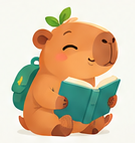
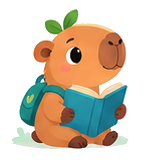
Nouvelles images de Capy, découpées dans la planche « compagnon de progression » avec fond transparent ; nouvelle icône d'appli et de site, bandeau d'accueil sans texte coupé

diff --git a/scripts/decouper-capy.js b/scripts/decouper-capy.js
@@ -1,0 +1,84 @@
+// Découpe la planche de Capy (assets/capy-source/planche-capy.png) en images de
+// l'appli, dans assets/capy/. Le fond clair autour de chaque dessin devient
+// transparent (remplissage depuis les bords), pour que Capy se pose sur tous les
+// fonds de l'appli, y compris les fonds teintés des réglages de lecture.
+//
+// Usage : node scripts/decouper-capy.js
+const Jimp = require('jimp-compact');
+
+const SOURCE = 'assets/capy-source/planche-capy.png';
+const DOSSIER = 'assets/capy';
+
+/** Nom du fichier → [x, y, largeur, hauteur] dans la planche, et transparence ou non. */
+const DECOUPES = {
+  capy: [330, 20, 380, 385, true],
+  heureux: [32, 465, 108, 130, true],
+  surpris: [135, 465, 110, 130, true],
+  'clin-oeil': [245, 465, 110, 130, true],
+  triste: [355, 465, 110, 130, true],
+  serieux: [462, 465, 112, 130, true],
+  fier: [570, 465, 135, 130, true],
+  exploration: [25, 695, 165, 160, true],
+  apprendre: [195, 695, 145, 160, true],
+  reflechi: [360, 680, 150, 175, true],
+  bravo: [525, 690, 170, 165, true],
+  explorer: [25, 895, 165, 140, true],
+  conseils: [195, 895, 135, 140, true],
+  reussite: [335, 880, 175, 160, true],
+  ralentir: [510, 900, 185, 135, true],
+  'icone-appli': [36, 36, 266, 266, true],
+  // Le bandeau s'arrête avant la phrase écrite dans l'image : elle ne peut pas être coupée.
+  paysage: [0, 1082, 905, 172, false],
+};
+
+/** Écart de couleur (0 à 441) en dessous duquel un pixel relié au bord est du fond. */
+const SEUIL_FOND = 26;
+/** Jusqu'à cet écart, le pixel du bord est à moitié transparent (contour adouci). */
+const SEUIL_BORD = 48;
+
+function rendreFondTransparent(img) {
+  const { width: l, height: h, data } = img.bitmap;
+  const coins = [0, l - 1, (h - 1) * l, h * l - 1].map((i) => [data[i * 4], data[i * 4 + 1], data[i * 4 + 2]]);
+  const ref = coins.reduce((a, c) => a.map((v, k) => v + c[k] / coins.length), [0, 0, 0]);
+  const ecart = (i) => Math.hypot(data[i * 4] - ref[0], data[i * 4 + 1] - ref[1], data[i * 4 + 2] - ref[2]);
+  const vu = new Uint8Array(l * h);
+  const pile = [];
+  for (let x = 0; x < l; x++) pile.push(x, (h - 1) * l + x);
+  for (let y = 0; y < h; y++) pile.push(y * l, y * l + l - 1);
+  while (pile.length) {
+    const i = pile.pop();
+    if (vu[i]) continue;
+    vu[i] = 1;
+    const e = ecart(i);
+    if (e >= SEUIL_BORD) continue;
+    if (e < SEUIL_FOND) {
+      data[i * 4 + 3] = 0;
+      const x = i % l;
+      if (x > 0) pile.push(i - 1);
+      if (x < l - 1) pile.push(i + 1);
+      if (i >= l) pile.push(i - l);
+      if (i < (h - 1) * l) pile.push(i + l);
+    } else {
+      data[i * 4 + 3] = Math.round((255 * (e - SEUIL_FOND)) / (SEUIL_BORD - SEUIL_FOND));
+    }
+  }
+}
+
+(async () => {
+  const planche = await Jimp.read(SOURCE);
+  for (const [nom, [x, y, l, h, transparent]] of Object.entries(DECOUPES)) {
+    const img = planche.clone().crop(x, y, l, h);
+    if (transparent) rendreFondTransparent(img);
+    await img.writeAsync(`${DOSSIER}/${nom}.png`);
+  }
+  // Icône de l'appli, de l'écran de démarrage et du site : carrée, 1024 px.
+  const icone = await Jimp.read(`${DOSSIER}/icone-appli.png`);
+  await icone.clone().resize(1024, 1024, Jimp.RESIZE_BICUBIC).writeAsync(`${DOSSIER}/icone-appli-carree.png`);
+  // Icônes du site installable (assets/web) ; la « maskable » garde le dessin dans la zone sûre, sur fond crème.
+  for (const t of [192, 512])
+    await icone.clone().resize(t, t, Jimp.RESIZE_BICUBIC).writeAsync(`assets/web/icone-${t}.png`);
+  const fond = new Jimp(512, 512, 0xfaf9f5ff);
+  fond.composite(icone.clone().resize(410, 410, Jimp.RESIZE_BICUBIC), 51, 51);
+  await fond.writeAsync('assets/web/icone-maskable-512.png');
+  console.log(`${Object.keys(DECOUPES).length} images découpées dans ${DOSSIER}/`);
+})();

diff --git a/src/mascotte.ts b/src/mascotte.ts
@@ -1,6 +1,7 @@
-// Images de Capy. C'est le seul fichier qui connaît leurs chemins :
-// pour remplacer les versions de travail par les PNG définitifs, il suffit
-// de remplacer les fichiers dans assets/capy/ (ou de modifier les chemins ici).
+// Images de Capy. C'est le seul fichier qui connaît leurs chemins. Elles sont
+// découpées dans la planche assets/capy-source/planche-capy.png par
+// scripts/decouper-capy.js (fond transparent) : pour changer une image, modifier
+// la planche ou le cadrage dans ce script, puis le relancer.
 import type { ImageSourcePropType } from 'react-native';
 
 export const mascotte = {
@@ -17,7 +18,8 @@ export const mascotte = {
   bravo: require('../assets/capy/bravo.png'),
   /** Nouveau thème, coffre de fin d'unité. */
   surpris: require('../assets/capy/surpris.png'),
-  defis: require('../assets/capy/defis.png'),
+  /** Coffre ouvert. */
+  fier: require('../assets/capy/fier.png'),
   /** Série de jours, encouragement. */
   clinOeil: require('../assets/capy/clin-oeil.png'),
   /** Écran du parcours. */
@@ -39,4 +41,4 @@ export const mascotte = {
 export type PoseCapy = keyof typeof mascotte;
 
 /** Rapport largeur / hauteur du bandeau, pour l'afficher sans le déformer. */
-export const RATIO_PAYSAGE = 1254 / 154;
+export const RATIO_PAYSAGE = 905 / 172;

diff --git a/src/app/index.tsx b/src/app/index.tsx
@@ -11,7 +11,7 @@ import { couleurs, espaces, formes } from '@/theme';
 /** Proportions du cadre du bandeau (plus haut que l'image, qui est donc recadrée). */
 const RATIO_CADRE = RATIO_PAYSAGE / 2.2;
 /** Position horizontale de Capy dans l'image (de 0 à 1) : le cadrage reste centré sur lui. */
-const CENTRE_CAPY = 0.48;
+const CENTRE_CAPY = 0.6;
 
 /** Accueil : choix de l'enfant qui joue. */
 export default function Accueil() {
@@ -131,7 +131,13 @@ function Paysage() {
       {largeur > 0 ? (
         <Image
           source={mascotte.paysage}
-          style={{ position: 'absolute', top: 0, height: hauteur, width: largeurImage, left: largeur / 2 - CENTRE_CAPY * largeurImage }}
+          style={{
+            position: 'absolute',
+            top: 0,
+            height: hauteur,
+            width: largeurImage,
+            left: largeur / 2 - CENTRE_CAPY * largeurImage,
+          }}
           accessible={false}
         />
       ) : null}

diff --git a/src/app/coffre.tsx b/src/app/coffre.tsx
@@ -72,7 +72,7 @@ function Coffre() {
     >
       <View style={styles.centre}>
         <Image
-          source={ouvert ? mascotte.defis : mascotte.surpris}
+          source={ouvert ? mascotte.fier : mascotte.surpris}
           style={styles.capy}
           resizeMode="contain"
           accessible={false}
